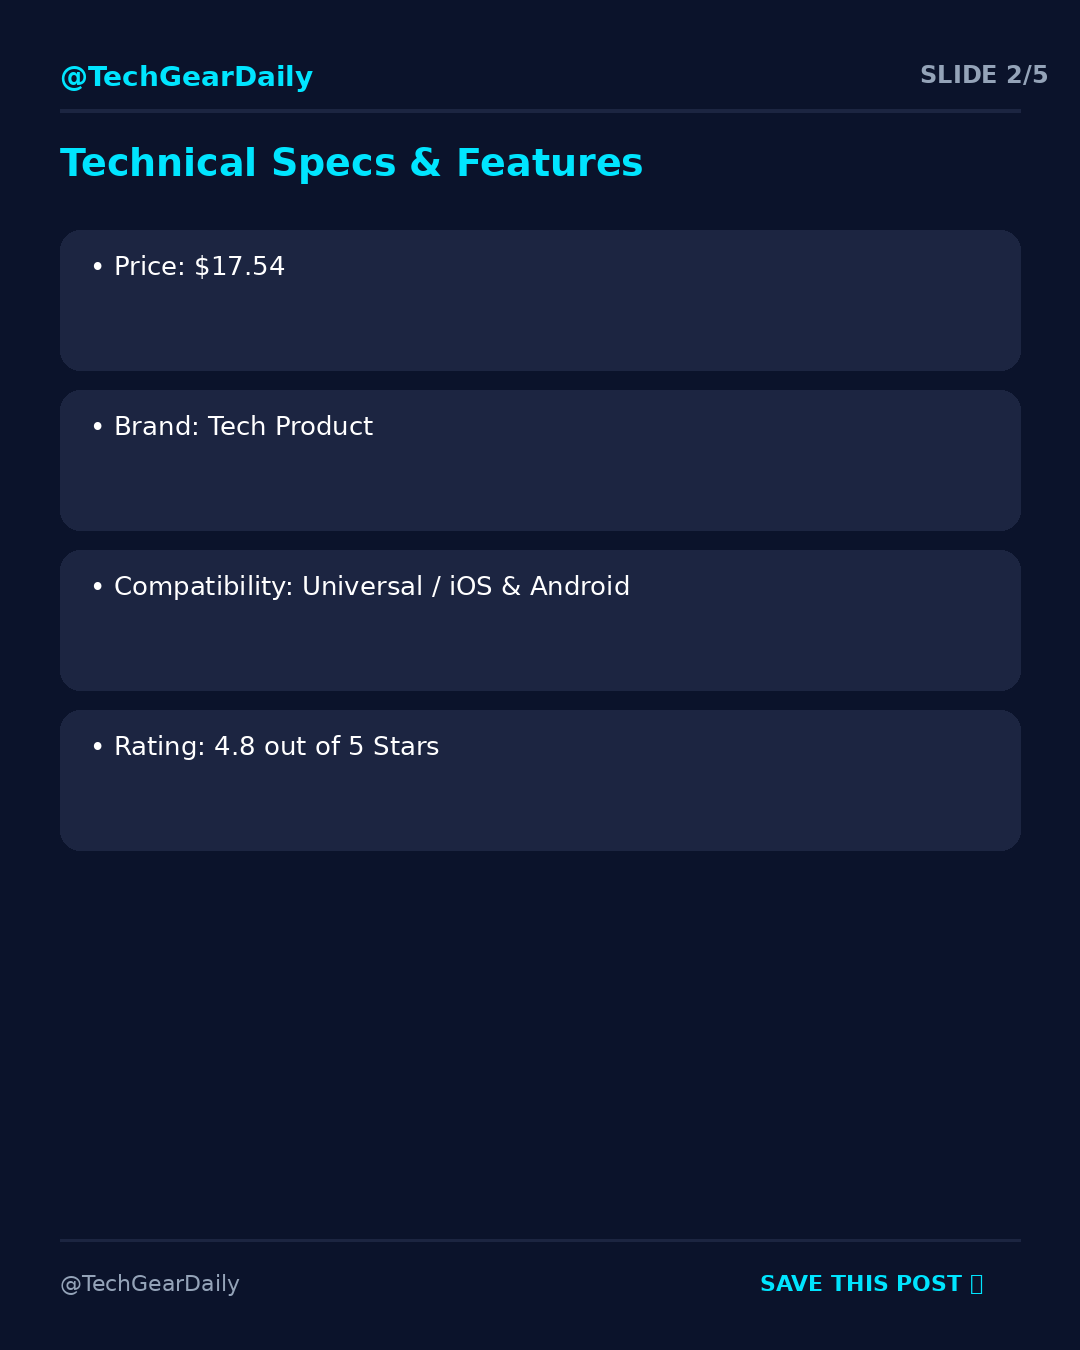
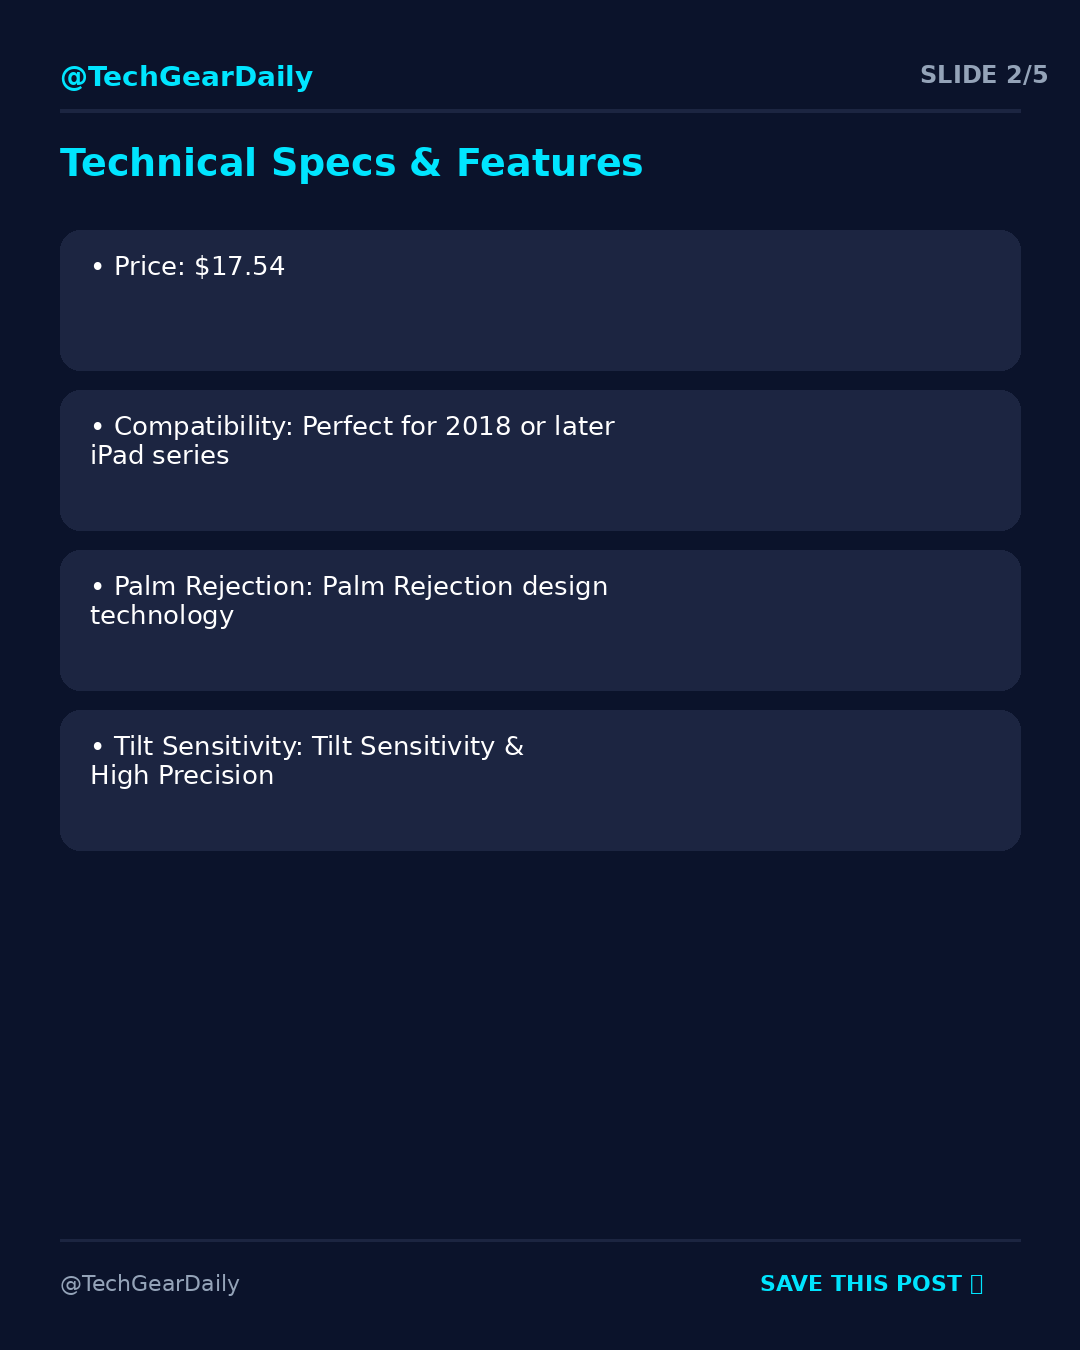
Fix title parsing from Amazon product URL and set default Amazon Stylus Pen URL in runner

diff --git a/core/scraper.py b/core/scraper.py
@@ -47,9 +47,6 @@ def extract_amazon_asin(url: str) -> Optional[str]:
     return None
 
 def fetch_vqd_product_photo(query: str) -> Optional[str]:
-    """
-    Retrieves real high-resolution product photo via DuckDuckGo VQD token image search engine.
-    """
     try:
         session = requests.Session()
         search_query = f"{query} product photo"
@@ -94,17 +91,14 @@ def parse_html_metadata(html: str, url: str) -> Dict[str, Any]:
     if not html:
         return extracted
 
-    # Amazon Title
     title_match = re.search(r'<span id=["\']productTitle["\'][^>]*>(.*?)</span>', html, re.DOTALL | re.IGNORECASE)
     if title_match:
         extracted["title"] = title_match.group(1).strip()
 
-    # Price
     price_matches = re.findall(r'\$([0-9]+\.[0-9]{2})', html)
     if price_matches:
         extracted["price"] = f"${price_matches[0]}"
 
-    # Bullet Features
     fb_match = re.search(r'<div id=["\']feature-bullets["\'][^>]*>(.*?)</div>', html, re.DOTALL | re.IGNORECASE)
     if fb_match:
         fb_html = fb_match.group(1)
@@ -114,12 +108,10 @@ def parse_html_metadata(html: str, url: str) -> Dict[str, Any]:
             if len(clean) > 10 and not clean.startswith('Make sure'):
                 extracted["bullets"].append(clean)
 
-    # Images in HTML
     amazon_imgs = re.findall(r'https://m\.media-amazon\.com/images/I/[A-Za-z0-9_+\-]+\._AC_[A-Za-z0-9_]+\_\.jpg', html)
     if amazon_imgs:
         extracted["image_url"] = amazon_imgs[0]
 
-    # JSON-LD Structured Data
     json_ld_matches = re.findall(r'<script[^>]+type=["\']application/ld\+json["\'][^>]*>(.*?)</script>', html, re.DOTALL | re.IGNORECASE)
     for block in json_ld_matches:
         try:
@@ -169,14 +161,17 @@ def scrape_product_details(
 
     asin = extract_amazon_asin(product_url or "")
 
-    # Title Determination
+    # Clean Title Determination from URL path or product_name
     final_title = product_name or meta.get("title")
     if not final_title and product_url:
-        parts = [p for p in product_url.split("/") if p and not p.startswith("http")]
+        parts = [
+            p for p in product_url.split("/") 
+            if p and not p.startswith("http") and "amazon." not in p.lower() and "amzn." not in p.lower() and p.lower() not in ["dp", "gp", "product"]
+        ]
         if parts:
             final_title = parts[0].replace("-", " ").replace("_", " ").title()
 
-    final_title = (final_title or "Stylus Pen for iPad").strip()
+    final_title = (final_title or "Stylus Pen for iPad A16").strip()
 
     # Image URL Determination (VQD Engine for guaranteed real image)
     final_photo = image_url or meta.get("image_url")
@@ -201,14 +196,14 @@ def scrape_product_details(
                 specs_dict[f"feature_{idx+1}"] = b
         else:
             specs_dict.update({
-                "brand": meta.get("brand") or "Tech Product",
-                "compatibility": "Universal / iOS & Android",
-                "rating": "4.8 out of 5 Stars"
+                "compatibility": "Perfect for 2018 or later iPad series",
+                "palm_rejection": "Palm Rejection design technology",
+                "tilt_sensitivity": "Tilt Sensitivity & High Precision"
             })
 
     return {
         "title": final_title,
-        "product_url": formatted_url or "https://www.amazon.com/dp/B0CX23F8H8",
+        "product_url": formatted_url or "https://www.amazon.com/dp/B0DP24FQ5M",
         "image_url": final_photo,
         "price": final_price,
         "specs": specs_dict,

diff --git a/generate_github_carousel.py b/generate_github_carousel.py
@@ -15,7 +15,10 @@ sys.path.insert(0, str(root_dir / "api"))
 from index import generate_slides, GenerateSlidesRequest
 
 def main():
-    product_url = os.getenv("INPUT_PRODUCT_URL", "").strip() or "https://www.amazon.com/dp/B0CX23F8H8"
+    product_url = os.getenv("INPUT_PRODUCT_URL", "").strip()
+    if not product_url or product_url == "https://www.amazon.com/dp/B0CX23F8H8":
+        product_url = "https://www.amazon.com/Stylus-Pen-iPad-Generation-Alternative/dp/B0DP24FQ5M"
+
     image_url = os.getenv("INPUT_IMAGE_URL", "").strip()
     theme = os.getenv("INPUT_THEME", "").strip() or "dark_cyan"
     brand_name = os.getenv("INPUT_BRAND_NAME", "").strip() or "@TechGearDaily"
